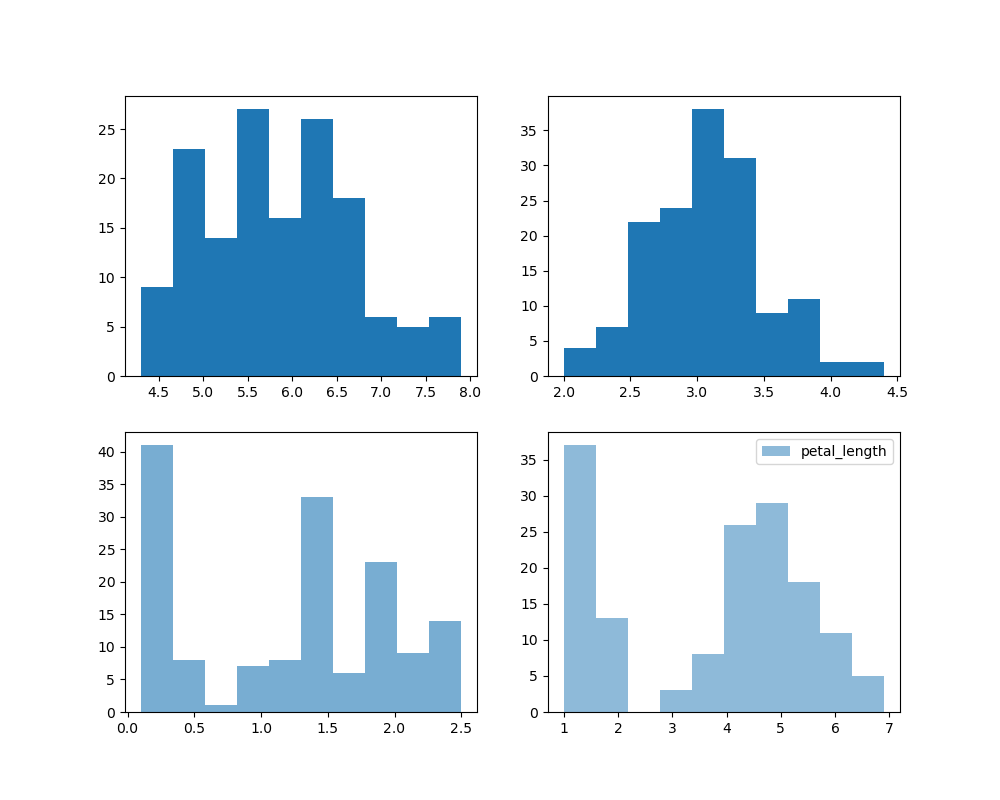
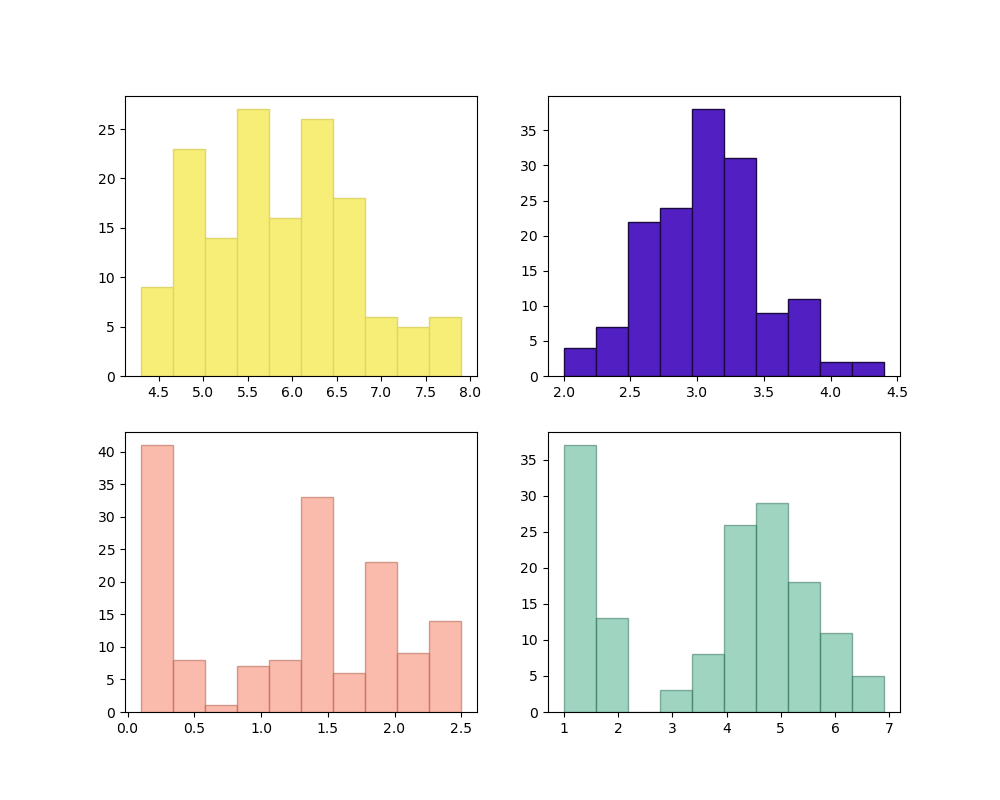
color edits to histogram.png to make bins clearer

diff --git a/analysis.py b/analysis.py
@@ -1,12 +1,13 @@
 import numpy as np  
 import pandas as pd
 import matplotlib.pyplot as plt
+import matplotlib.patches as mpatches
 import seaborn as sns
 
 #reading in the CSV file - acquired from:
 # Read in CSV file
-data = pd.read_csv("iris.csv")
-print(data.head())
+df = pd.read_csv("iris.csv")
+print(df.head())
 #Result:
 #   sepal_length  sepal_width  petal_length  petal_width species
 #0           5.1          3.5           1.4          0.2  setosa
@@ -15,17 +16,13 @@ print(data.head())
 #3           4.6          3.1           1.5          0.2  setosa
 #4           5.0          3.6           1.4          0.2  setosa
 
-cols = ["sepal_length", "sepal_width", "petal_width", "petal_length"]
-#renameing columns with dictionary to cols to save over dataframe
-data.rename(columns = {cols[0]:0, cols[1]:1, cols[2]:2, cols[3]:3}, inplace=True)
-#like data.head shows every 50th row or the first row of each species data
-data.loc[::50]
 
-print(data.shape)
+
+print(df.shape)
 #Result is 150 rows and 5 columns (does not include the row numbers column)
 #(150, 5)
 
-print(data.describe())
+print(df.describe())
 #                0           1           3           2
 #count  150.000000  150.000000  150.000000  150.000000
 #mean     5.843333    3.054000    3.758667    1.198667
@@ -35,12 +32,12 @@ print(data.describe())
 #50%      5.800000    3.000000    4.350000    1.300000
 #75%      6.400000    3.300000    5.100000    1.800000
 #max      7.900000    4.400000    6.900000    2.500000
-print(data.species.value_counts())
+print(df.species.value_counts())
 
 
 
 #using .info we can print the data types to avoid null data etc
-print(data.info())
+print(df.info())
 #Results:
 #RangeIndex: 150 entries, 0 to 149
 #Data columns (total 5 columns):
@@ -55,7 +52,7 @@ print(data.info())
 #memory usage: 6.0+ KB
 
 
-print(data.isnull().sum())
+print(df.isnull().sum())
 #Results:
 #sepal_length    0
 #sepal_width     0
@@ -64,7 +61,7 @@ print(data.isnull().sum())
 #species         0
 #dtype: int64
 
-print(data.value_counts("species"))
+print(df.value_counts("species"))
 #Results:
 #species
 #setosa        50
@@ -80,7 +77,7 @@ print(data.value_counts("species"))
 #pair1 petal_length v petal_width
 plt.gcf().set_size_inches(10, 8)
 #sets the size of image in inches
-sns.scatterplot(x="petal_width", y="petal_length", hue="species", data=data)
+sns.scatterplot(x="petal_width", y="petal_length", hue="species", data=df)
 plt.legend(bbox_to_anchor=(1, 1), loc=2)
 plt.savefig("Petal Width V Petal Length Scatterplot", dpi=200)
 #saves the figure - saved with particular dpi(dots per inch = clarity of image) to fit all in image file
@@ -93,7 +90,7 @@ plt.close()
 
 #pair2 sepal_length v sepal_width
 plt.gcf().set_size_inches(10, 8)
-sns.scatterplot(x="sepal_width", y="sepal_length", hue="species", data=data)
+sns.scatterplot(x="sepal_width", y="sepal_length", hue="species", data=df)
 plt.legend(bbox_to_anchor=(1, 1), loc=2)
 plt.savefig("Sepal Width V Sepal Length Scatterplot", dpi=200)
 plt.close()
@@ -103,7 +100,7 @@ plt.close()
 
 #pair3 sepal_length v petal_length
 plt.gcf().set_size_inches(10, 8)
-sns.scatterplot(x="petal_length", y="sepal_length", hue="species", data=data)
+sns.scatterplot(x="petal_length", y="sepal_length", hue="species", data=df)
 plt.legend(bbox_to_anchor=(1, 1), loc=2)
 plt.savefig("Sepal Length V Petal Length Scatterplot", dpi=200)
 plt.close()
@@ -112,7 +109,7 @@ plt.close()
 
 #pair4 sepal_width v petal_width
 plt.gcf().set_size_inches(10, 8)
-sns.scatterplot(x="petal_width", y="sepal_width", hue="species", data=data)
+sns.scatterplot(x="petal_width", y="sepal_width", hue="species", data=df)
 plt.legend(bbox_to_anchor=(1, 1), loc=2)
 plt.savefig("Sepal Width V Petal Width Scatterplot", dpi=200)
 plt.close()
@@ -121,7 +118,7 @@ plt.close()
 
 #pair5 Sepal Length V Petal Width
 plt.gcf().set_size_inches(10, 8)
-sns.scatterplot(x="petal_width", y="sepal_length", hue="species", data=data)
+sns.scatterplot(x="petal_width", y="sepal_length", hue="species", data=df)
 plt.legend(bbox_to_anchor=(1, 1), loc=2)
 plt.savefig("Sepal Length V Petal Width Scatterplot", dpi=200)
 plt.close()
@@ -130,7 +127,7 @@ plt.close()
 
 #pair6 Sepal Width V Petal Length
 plt.gcf().set_size_inches(10, 8)
-sns.scatterplot(x="sepal_width", y="petal_length", hue="species", data=data)
+sns.scatterplot(x="sepal_width", y="petal_length", hue="species", data=df)
 plt.legend(bbox_to_anchor=(1, 1), loc=2)
 
 plt.savefig("Sepal Width V Petal Length Scatterplot", dpi=200)
@@ -139,6 +136,12 @@ plt.close()
 #------
 
 #Saves a histogram of the 4 variables to png files
+cols = ["sepal_length", "sepal_width", "petal_width", "petal_length"]
+#renameing columns with dictionary to cols to save over dataframe
+df.rename(columns = {cols[0]:0, cols[1]:1, cols[2]:2, cols[3]:3}, inplace=True)
+#like data.head shows every 50th row or the first row of each species data
+df.loc[::50]
+
 #https://www.statology.org/matplotlib-histogram-color/ - EC
 #https://www.youtube.com/watch?v=02BFXhPQWHQ
 #histogram, 4, 5, 6 species compare sepal_length, width, petal_length, width
@@ -146,12 +149,13 @@ plt.close()
 # this histogram shows that the four attributes are either evenly distributed (bell shaped not binary)or not, sepal length and width are evenly distrib petal is not
 fig, ax = plt.subplots(2, 2, figsize = (10, 8))
 #saves 4 figures for each attribute into one figure
-ax[0, 0].hist(data[0], label=cols[0])
-ax[0, 1].hist(data[1], alpha=1, label=cols[1])
-ax[1, 0].hist(data[2], alpha=0.6, label=cols[2])
-ax[1, 1].hist(data[3], alpha=0.5, label=cols[3])
+ax[0, 0].hist(df[0], label=cols[0], color="#F7EE77", ec="#DED66A")
+ax[0, 1].hist(df[1], alpha=1, label=cols[1], color="#511FC2", ec="#1B0B42")
+ax[1, 0].hist(df[2], alpha=0.6, label=cols[2], color="#F78E77", ec="#B86A58")
+ax[1, 1].hist(df[3], alpha=0.5, label=cols[3], color="#41AB85", ec="#296B53")
+
 #alpha 1 makes top most shape transparent fully, the rest lesser modes of transparancy
-plt.legend()
+
 #needs legends on each!!!###############
 plt.savefig("Histograms")
 
@@ -159,6 +163,6 @@ plt.savefig("Histograms")
 #-----
 
 plt.gcf().set_size_inches(14, 10)
-sns.pairplot(data, hue="species")
+sns.pairplot(df, hue="species", palette="hls")
 plt.legend(bbox_to_anchor=(1, 1), loc=2)
 plt.savefig("Overview of Species Comparison")
